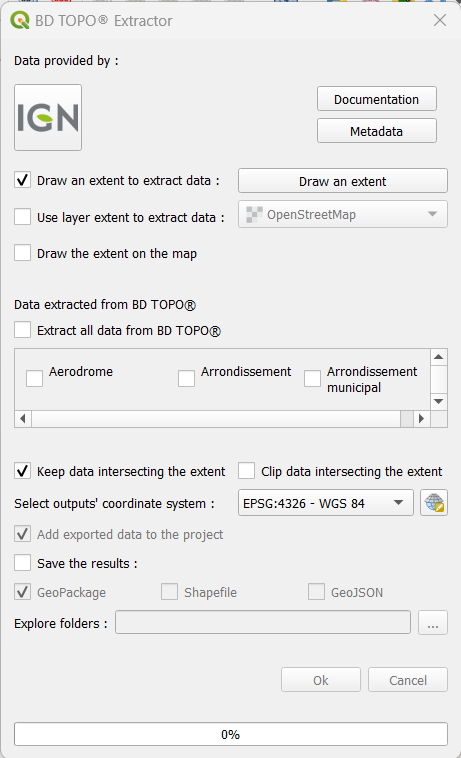
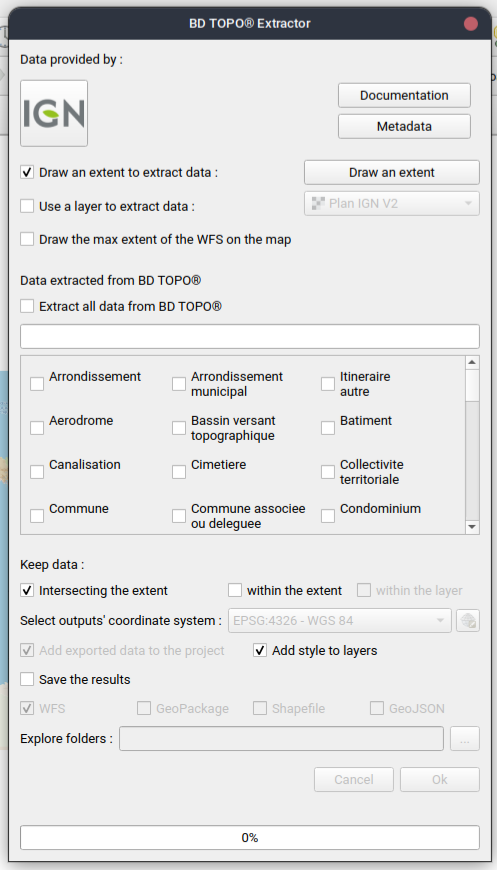
update documentation

diff --git a/bd_topo_extractor/resources/i18n/bd_topo_extractor_fr.ts b/bd_topo_extractor/resources/i18n/bd_topo_extractor_fr.ts
@@ -30,8 +30,8 @@
     </message>
     <message>
         <location filename="../../gui/dlg_main.py" line="179"/>
-        <source>Use layer extent to extract data :</source>
-        <translation>Utiliser l'emprise d'une couche pour l'extraction :</translation>
+        <source>Use a layer to extract data :</source>
+        <translation>Utiliser une couche pour l'extraction :</translation>
     </message>
     <message>
         <location filename="../../gui/dlg_main.py" line="215"/>

diff --git a/bd_topo_extractor/resources/i18n/bd_topo_extractor_en.ts b/bd_topo_extractor/resources/i18n/bd_topo_extractor_en.ts
@@ -30,7 +30,7 @@
     </message>
     <message>
         <location filename="../../gui/dlg_main.py" line="179"/>
-        <source>Use layer extent to extract data :</source>
+        <source>Use a layer to extract data :</source>
         <translation type="unfinished"></translation>
     </message>
     <message>

diff --git a/bd_topo_extractor/gui/dlg_main.py b/bd_topo_extractor/gui/dlg_main.py
@@ -88,7 +88,7 @@ class BdTopoExtractorDialog(QDialog):
         provides the hook by which you can manipulate the QGIS application \
         at run time.
         url: The wfs url
-        manager: a QgsNetworkManager to realize the network request
+        manager: a QNetworkAccessManager to realize the network request
         locale: language settings of QGIS to know wich documentation open
         """
         super().__init__()
@@ -176,9 +176,7 @@ class BdTopoExtractorDialog(QDialog):
 
         # Select layer tool
         self.select_layer_checkbox = QCheckBox(self)
-        self.select_layer_checkbox.setText(
-            self.tr("Use layer extent to extract data :")
-        )
+        self.select_layer_checkbox.setText(self.tr("Use a layer to extract data :"))
         self.select_layer_checkbox.setChecked(False)
         extent_check_group.addButton(self.select_layer_checkbox)
         self.extent_layout.addWidget(

diff --git a/docs/conf.py b/docs/conf.py
@@ -24,7 +24,7 @@ on_rtd = environ.get("READTHEDOCS", None) == "True"
 author = __about__.__author__
 copyright = __about__.__copyright__
 description = __about__.__summary__
-project = __about__.__title__
+project = __about__.__plugin_name__
 version = release = __about__.__version__
 
 # -- General configuration ---------------------------------------------------

diff --git a/bd_topo_extractor/processing/getcapabilities_request.py b/bd_topo_extractor/processing/getcapabilities_request.py
@@ -19,7 +19,7 @@ class GetCapabilitiesRequest(QObject):
     :param
         url: The wfs url
         schema: The schema of the data in the wfs url
-        manager: a QgsNetworkManager to realize the network request
+        manager: a QNetworkAccessManager to realize the network request
         """
 
     def __init__(

diff --git a/docs/usage/fr_how_to_use.md b/docs/usage/fr_how_to_use.md
@@ -12,7 +12,7 @@ Seulement 4 étapes sont nécéssaires pour utiliser le BD TOPO® Extractor :
 
 1. [Sélectionner les données que l'on souhait extraire](https://plugin-bd-topo-extractor-220867.frama.io/usage/fr_how_to_use.html#selectionner-les-donnees-a-extraire)
 
-1. [Séelectionner si l'on souhaite conserver les entités qui intersectent l'emprise ou si l'on coupe ces entités en fonction de l'emprise.](https://plugin-bd-topo-extractor-220867.frama.io/usage/fr_how_to_use.html#selectionner-le-fitrage-de-lemprise)
+1. [Sélectionner si l'on souhaite conserver les entités qui intersectent l'emprise ou si l'on coupe ces entités en fonction de l'emprise.](https://plugin-bd-topo-extractor-220867.frama.io/usage/fr_how_to_use.html#selectionner-le-fitrage-de-lemprise)
 
 1. [Sélectionner si l'on souhaite sauvegarder le résultat ou non, et si c'est le cas, renseigner le dossier en sortie et le format de la donnée.](https://plugin-bd-topo-extractor-220867.frama.io/usage/fr_how_to_use.html#selectionner-le-format-en-sortie)
 
@@ -24,10 +24,10 @@ Seulement 4 étapes sont nécéssaires pour utiliser le BD TOPO® Extractor :
 
 ### 1. Sélectionner une emprise
 
-Il est possible :
+Il est possible de :
 
 - dessiner un rectangle sur la carte (par défaut)
-- sélectionner une couche d'information géographique présente dans le projet et utilisé son emprise.
+- sélectionner une couche d'information géographique présente dans le projet et utilisé son emprise ou son contour.
 
 #### Choose your weapon
 
@@ -35,7 +35,7 @@ Il est possible :
 
 - `Utiliser une emprise tracée pour l'extraction :` si l'on souhaite utiliser une emprise déssinée. Puis il faut cliquer sur le bouton `Dessiner une emprise` et tracer un rectangle sur la cart.
 
-- `Utiliser l'emprise d'une couche pour l'extraction :` si l'on souhaite utiliser l'emprise d'une couche de données géographiques. Il faut ensuite choisir la couche sur lequel sera basée l'emprise dans la liste déroulante.
+- `Utiliser une couche pour l'extraction :` si l'on souhaite utiliser l'emprise ou le contour d'une couche de données géographiques. Il faut ensuite choisir la couche sur lequel sera basée la découpe dans la liste déroulante.
 
 #### Messages d'erreur
 
@@ -44,6 +44,8 @@ La couche sélectionne ou le rectangle déssinée est en dehors de l'emprise max
 <p align="center">
   <img src="https://framagit.org/JulesGrillot/plugin_bd_topo_extractor/-/raw/main/bd_topo_extractor/resources/images/outside_wfs_error_fr.png?ref_type=heads" alt="outside_wfs_error"/>
 </p>
+
+Vous pouvez utiliser la case à cocher `Ajouter l'étendue maximale du WFS sur la carte` pour ajouter une couche d'information géographique dans votre projet montrant l'étendue du WFS.
 
 L'emprise sélectionnée est trop grande, le traitement peut prendre un temps conséquent.
 
@@ -57,13 +59,13 @@ Toutes les données du WFS sont listées dans la partie centrale de l'interface 
 
 ### 3. Sélectionner le fitrage de l'emprise
 
-Il est possible d'extraire toutes les entités qui intersectent l'emprise sélectionnée (par défaut) en cochant la case `Conserver les données intersectant l'emprise` ou de découper les entités en fonction de l'emprise en cochant la case `Découper les données intersectant l'emprise`.
+Il est possible d'extraire toutes les entités qui intersectent l'emprise sélectionnée (par défaut) en cochant la case `Intersectant l'emprise` ou de découper les entités en fonction de l'emprise en cochant la case `à l'intérieur de l'emprise`. Il est également possible d'extraire uniqument les données à l'intérieur de la couche sélectionnée en cochant la case `à l'intérieur de la couche`.
 
 ### 4. Sélectionner le format en sortie
 
 #### Sauvegarder le résultat dans une couche temporaire
 
-Si l'on ne souhaite pas sauvegarder les données extraites dans un fichier (par défaut), il est seulement nécéssaire de sélectionner le système de projection en sortie.
+Si l'on ne souhaite pas sauvegarder les données extraites dans un fichier (par défaut), il est seulement nécéssaire de sélectionner le système de projection en sortie. Le système de projection sera `4326 - WGS 84` si le format de sortie WFS est sélectionné, il s'agit du système de projection du WFS.
 
 #### Sauvergarder le résultat
 
@@ -72,10 +74,16 @@ Si l'on souhaite sauvegarder les données dans un fichier il faut :
 - sélectionner le système de projection en sortie avec la liste déroulant
 - cocher la case `Enregistrer le résultat :`.
 - sélectionner si l'on souhaite ajouter les données exportées au projet (par défaut) ou non.
-- sélectionner le format du fichier, `GeoPackage` (par défaut), `Shapefile` ou `GeoJSon`.
+- sélectionner le format du fichier, `GeoPackage`, `Shapefile` ou `GeoJSon`.
 - sélectionner le dossier en sortie pour enregistrer les données dans un dossier appelé `BDTopoExport_yyyymmdd_HHMM`.
 
 Si le format GeoPackage est sélectionné, seulement un seul fichier contenant toutes les données sera crée dans le dossier.
+
+Si vous ne souhaitez pas sauvergarder le résulat, le format de sortie sera par défaut :
+
+- `WFS` si vous avez sélectionné de conserver les données intersectant l'emprise.
+- `GeoPackage` (comme couche temporaire) si vous avez sélectionné de conserver les données à l'intérieur de l'emprise.
+- `GeoPackage` (comme couche temporaire) si vous avez sélectionné de conserver les données à l'intérieur de la couche d'information géographique.
 
 ### Lancer l'extraction
 

diff --git a/docs/usage/en_how_to_use.md b/docs/usage/en_how_to_use.md
@@ -1,6 +1,7 @@
 # BD TOPO® Extractor - Documentation
 
 ## What's the point
+
 This tool allows you to extract specific data from IGN's BD TOPO®. The extraction is based on either an extent drawned by the user on the map canvas or a layer's extent. The data is based on the WFS service published by IGN with the [Géoplateforme](https://www.ign.fr/geoplateforme).
 
 ## How to use it
@@ -31,7 +32,7 @@ You can either draw a rectangle on the map (default) or select a layer in your p
 
 - `Draw an extent to extract data :` if you want to use a drawned extent. Then you have to click the `Draw an extent` button and create a rectangle on the map.
 
-- `Use layer extent to extract data :` if you want to use a layer's extent. Check it and then use the combobox to select the layer you want to use.
+- `Use a layer to extract data :` if you want to use a layer's extent or a layer' boundary. Check it and then use the combobox to select the layer you want to use.
 
 #### Error messages
 
@@ -41,7 +42,9 @@ The selected layer or the drawned rectangle is outside of the total extent of th
   <img src="https://framagit.org/JulesGrillot/plugin_bd_topo_extractor/-/raw/main/bd_topo_extractor/resources/images/outside_wfs_error.png?ref_type=heads" alt="outside_wfs_error"/>
 </p>
 
-The drawned rectangle is too big, the process can take a long time.
+You can use the checkbox `Draw the max extent of the WFS on the map` to add a layer in your project to show the extent of the WFS.
+
+The drawned rectangle or the selected layer is too big, the process can take a long time.
 
 <p align="center">
   <img src="https://framagit.org/JulesGrillot/plugin_bd_topo_extractor/-/raw/main/bd_topo_extractor/resources/images/extent_too_big_error.png?ref_type=heads" alt="extent_too_big_error"/>
@@ -53,25 +56,31 @@ All data in the WFS are listed in the middle part of the UI. You can either sele
 
 ### 3. Select output geometry
 
-You can extract all features intersecting the extent (default) by checking `Keep data intersecting the extent` or choose to clip all features with the extent by checking `Clip data intersecting the extent.`
+You can extract all features intersecting the extent (default) by checking `Intersecting the extent` or choose to clip all features with the extent by checking `within the extent`. Finally if you choose to use a layer to extract data, you can clip all features within the layer by cheching `within the layer`.
 
 ### 4. Select output format
 
 #### Save result as temporary layer
 
-If you don't want to save the extracted data as layers (default) you only have to select the output crs with the combobox.
+If you don't want to save the extracted data as layers (default) you only have to select the output crs with the combobox. If the output format is a WFS, the CRS is automatically `4326 - WGS 84`, it's the crs of the source WFS.
 
 #### Save result as layer
 
 If you want to save the extracted data as layers you have to :
 
 - select the output crs with the combobox.
-- check the `Save the results :` checkbox.
+- check the `Save the results` checkbox.
 - select if you want to add the exported data to the project (default) or not.
-- select the output format, `GeoPackage` (default), `Shapefile` or `GeoJSon`.
+- select the output format, `GeoPackage`, `Shapefile` or `GeoJSon`.
 - select the output folder to save the new layers inside a folder called `BDTopoExport_yyyymmdd_HHMM`.
 
 If GeoPackage format is selected, only one file is created inside the folder with all layers inside.
+
+If you don't want to save the result, the output format is by default :
+
+- `WFS` if the user selected to only keep the data intersecting the extent.
+- `GeoPackage` (as memory layer) if the user selected to keep the data within the extent.
+- `GeoPackage` (as memory layer) if the user selected to keep the data within the layer.
 
 ### Launch the extraction
 

diff --git a/bd_topo_extractor/README.md b/bd_topo_extractor/README.md
@@ -34,7 +34,7 @@ First you need to check the right checkbox :
 
 - `Draw an extent to extract data :` if you want to use a drawned extent. Then you have to click the `Draw an extent` button and create a rectangle on the map.
 
-- `Use layer extent to extract data :` if you want to use a layer's extent. Check it and then use the combobox to select the layer you want to use.
+- `Use a layer to extract data :` if you want to use a layer's extent. Check it and then use the combobox to select the layer you want to use.
 
 2 error message can appear :
 
